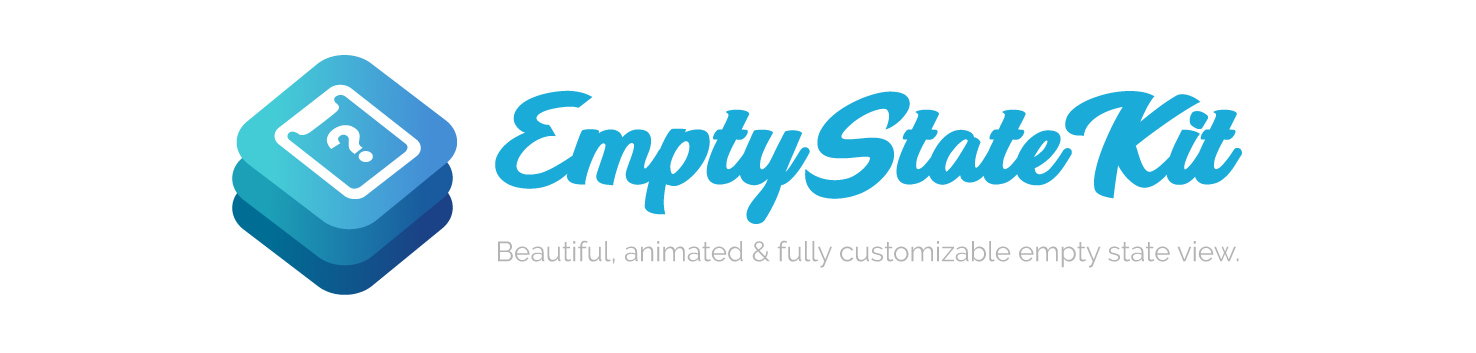
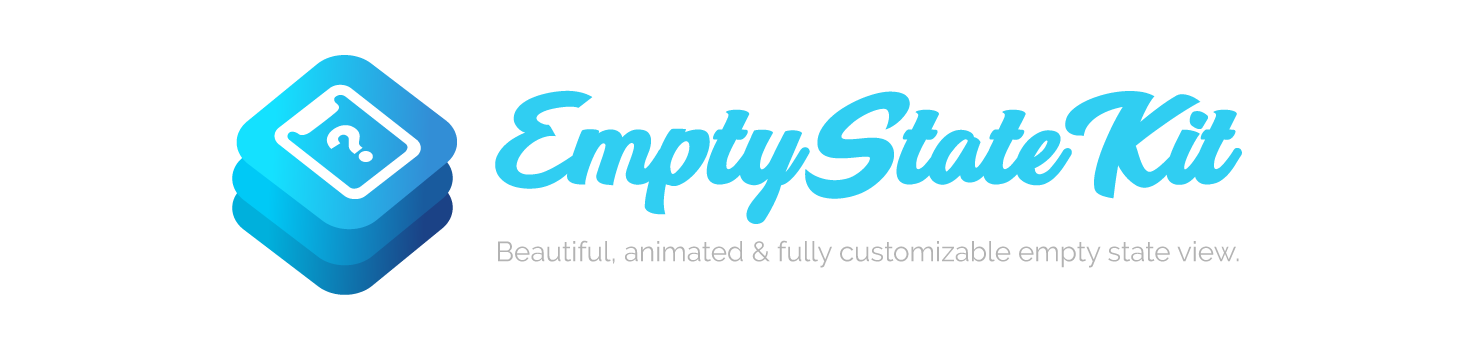
Updated resources and readme file

Changed region(s): [[0.3117, 0.2493, 0.8415, 0.6232], [0.1558, 0.1558, 0.2805, 0.8414]]

diff --git a/README.md b/README.md
@@ -2,10 +2,10 @@
 
 # EmptyStateKit
 
-[![Version](https://img.shields.io/cocoapods/v/EmptyStateKit.svg?style=flat&colorB=008B60)](https://cocoapods.org/pods/EmptyStateKit)
+[![Version](https://img.shields.io/cocoapods/v/EmptyStateKit.svg?style=flat&colorB=30CEF2)](https://cocoapods.org/pods/EmptyStateKit)
 [![License](https://img.shields.io/cocoapods/l/EmptyStateKit.svg?style=flat)](https://cocoapods.org/pods/EmptyStateKit)
 [![Platform](https://img.shields.io/cocoapods/p/EmptyStateKit.svg?style=flat)](https://cocoapods.org/pods/EmptyStateKit)
-![Swift](https://img.shields.io/badge/%20in-swift%205.0-orange.svg?style=flat&colorB=008B60)
+![Swift](https://img.shields.io/badge/%20in-swift%205.0-orange.svg?style=flat&colorB=30CEF2)
 
 ## Table of Contents
 
@@ -13,12 +13,13 @@
 - [Example](#example)
 - [Installation](#installation)
 - [Usage](#usage)
-    - [1. Complete empty states data](#1.completeemptystatesdata)
-    - [2. Show or hide your empty state](#2.showorhideyouremptystate)
-    - [3. Handling button action with EmptyStateDelegate](#3.handlingbuttonactionwithemptystatedelegate)
+    - [1. Complete empty states data](#1-complete-empty-states-data)
+    - [2. Show or hide your empty state](#2-show-or-hide-your-empty-state)
+    - [3. Handling button action with EmptyStateDelegate](#3-handling-button-action-with-emptystatedelegate)
 - [Format](#format)
-- [Animation Types](#animationtypes)
-- [Position Types](#positiontypes)
+- [Animation Types](#animation-types)
+- [Position Types](#position-types)
+- [Mentions](#mentions)
 - [Author](#author)
 - [Contributing](#contributing)
 - [License](#license)
@@ -58,11 +59,16 @@ import EmptyStateKit
 
 ## Usage
 
-It's important, when an error or empty state occurs, to inform or teach the user how to recover from the error or how to populate the screen with content. Keep in mind to give your users a next step, like  a link to another section, a button to recover from an error or content to interact with. This will help you to increase engagement! In the example you will see multiple types of empty states and how you can customize them. Be creative!. Once you've installed the pod, follow next steps. It's really simple:
+It's important, when an error or empty state occurs, to inform or teach the user how to recover from the error or how to populate the screen with content. Keep in mind to give your users a next step, like  a link to another section, a button to recover from an error or content to interact with. This will help you to increase engagement! In the example you will see multiple types of empty states and how you can customize them. Be creative!. 
+
+---
+
+Once you've installed the pod, follow next steps. It's really simple:
 
 ### 1. Complete empty states data
 
-To complete empty states data, you can choose implementing EmptyStateDataSource or extend your custom enum states with image, title, description and titleButton params. I recommend the second option to keep states data outside your view controller.
+To complete empty states data, you can choose implementing EmptyStateDataSource or extend your custom enum states with image, title, description and titleButton params. 
+>I recommend the second option to keep states data outside your view controller.
 
 #### Using EmptyStateDataSource
 
@@ -298,12 +304,20 @@ public enum EmptyStateImagePosition {
 
 >Cover image will be setted by (Cover margin top image, Cover margin bottom image)
 
+## Mentions
+
+If you use EmptyStateKit in your app I'd love to hear about it and feature your empty state here!
+
+<img src="https://is1-ssl.mzstatic.com/image/thumb/Purple113/v4/b9/ed/6e/b9ed6e65-b31c-2e2c-9113-16715decbbde/AppIcon-0-1x_U007emarketing-0-0-GLES2_U002c0-512MB-sRGB-0-0-0-85-220-0-0-0-5.jpeg/246x0w.jpg" style="border-radius:23%; margin-right:20px" width="50" valign="middle"> [FashTime](https://itunes.apple.com/app/fashtime-the-new-way/id1126538070?mt=8)
+
 ## Author
 
 Alberto Aznar, info@alberdev.com.
 The example contains some illustrations made by [Angga Risky](https://www.youtube.com/channel/UCG1aEPR4NO2Sd_mmJFimfQQ) and [Sweetie](https://dribbble.com/sweetie).
 
 ## Contributing
+
+Feel free to collaborate with ideas 💭, issues ⁉ and/or pull requests 🔃.
 
 1. Fork it!
 2. Create your feature branch: `git checkout -b my-new-feature`
